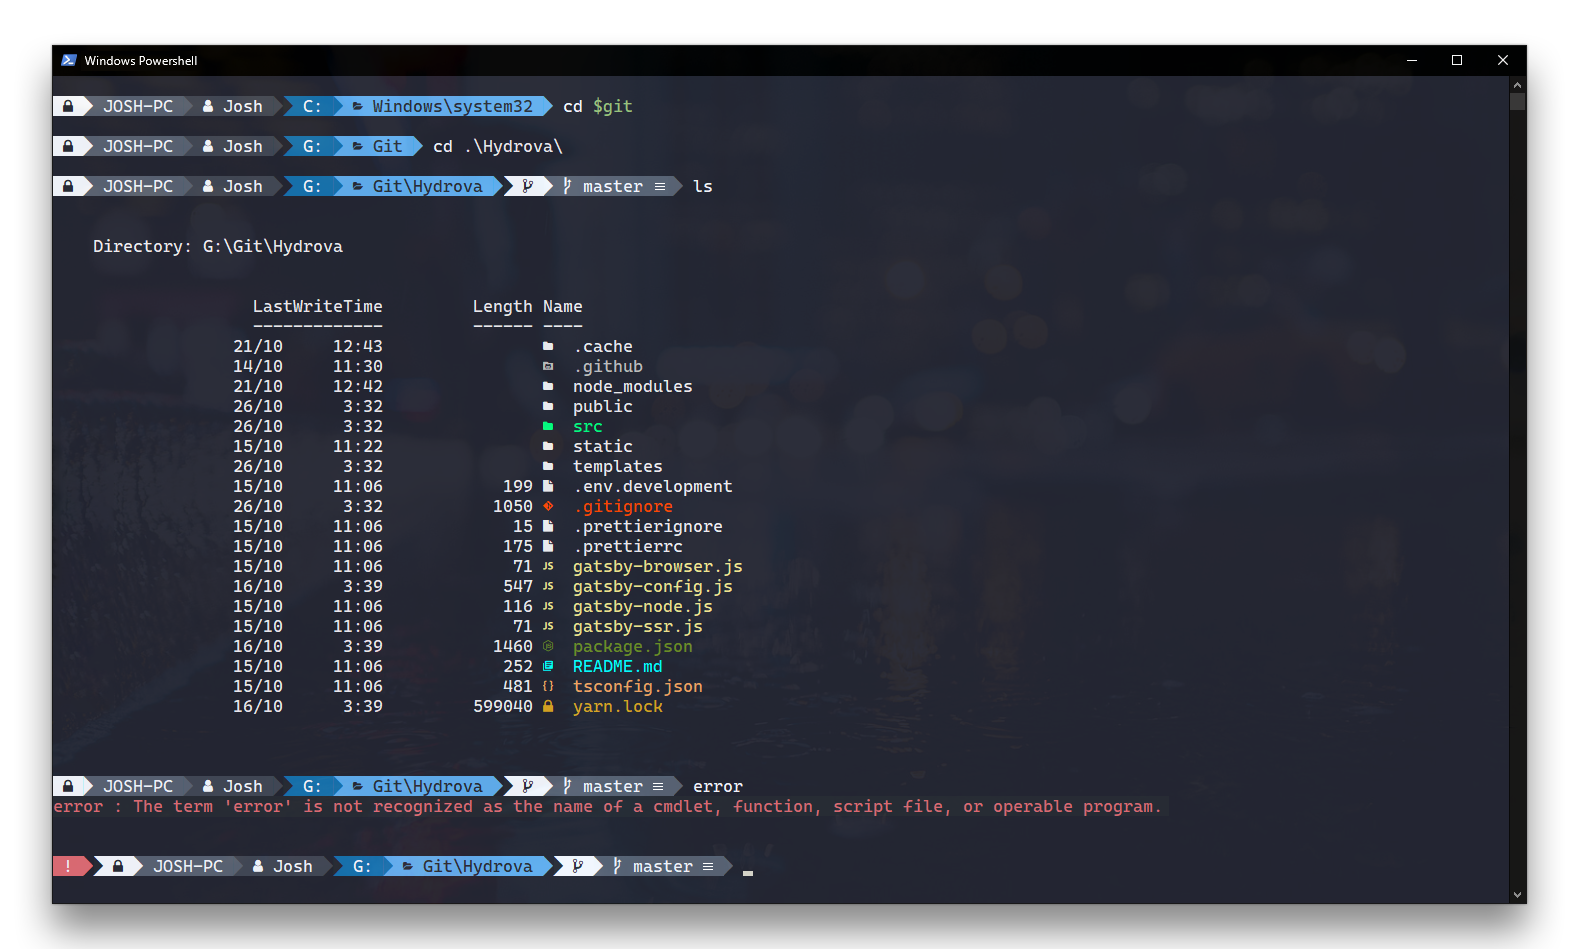
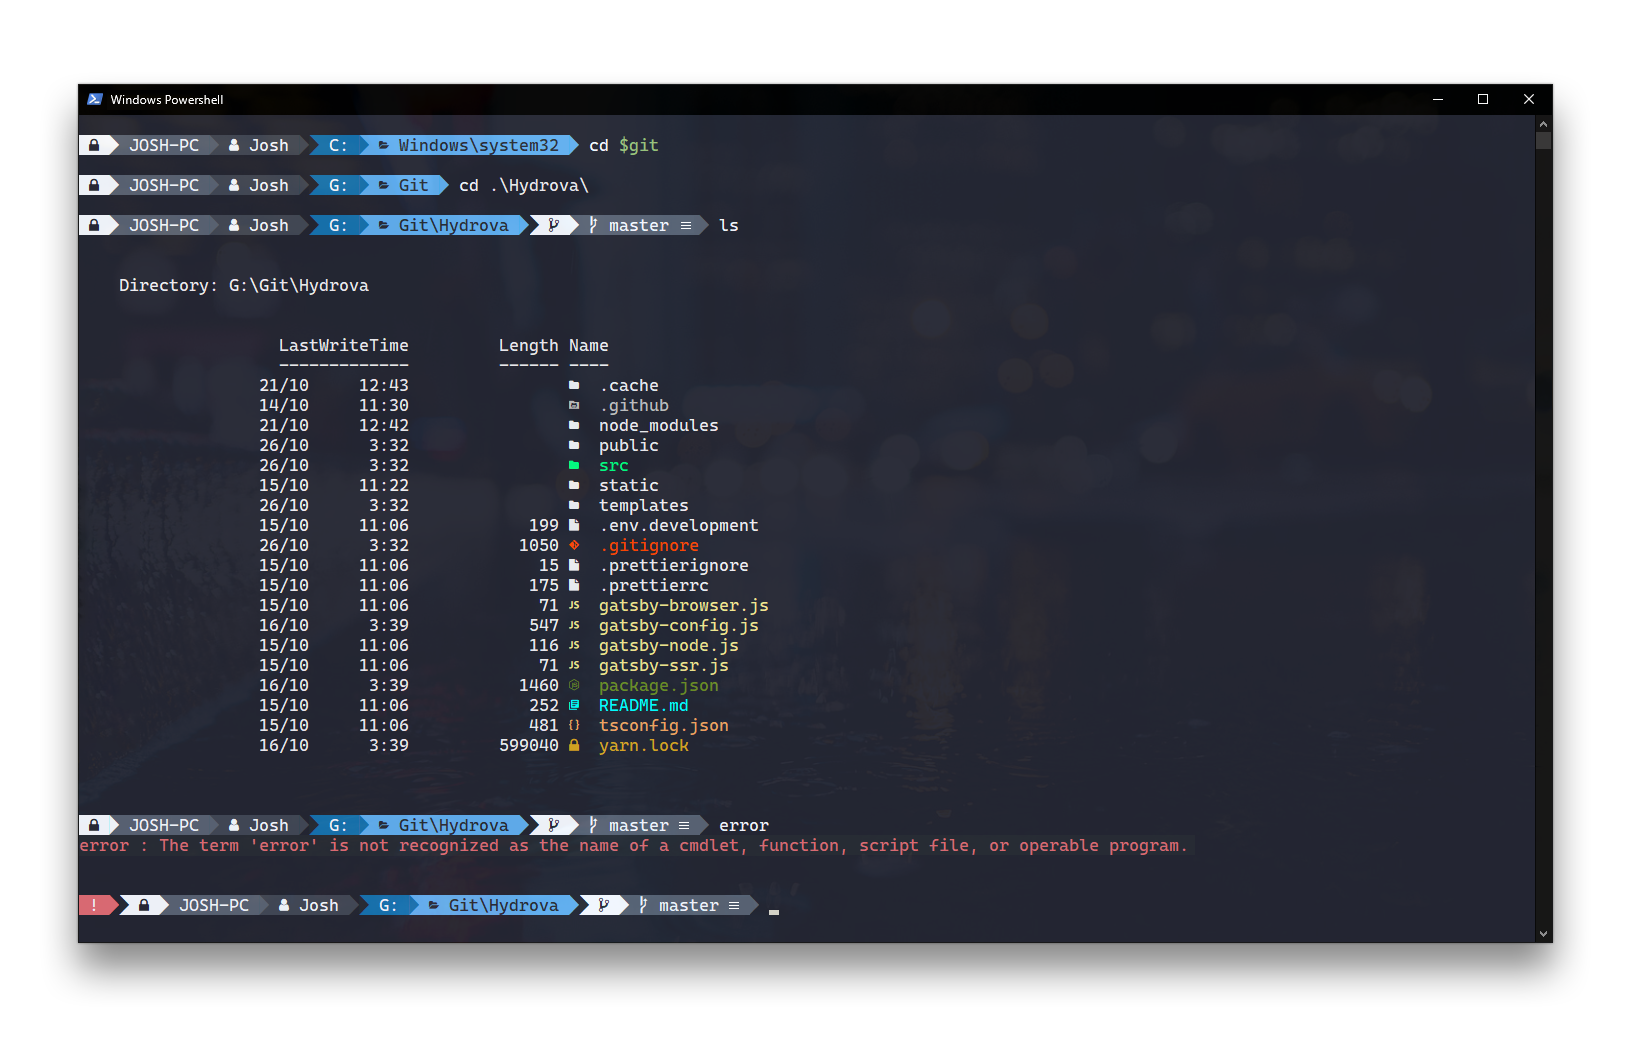
Update Image Padding

Changed region(s): [[0.0, 0.0306, 0.9937, 1.0]]

diff --git a/README.md b/README.md
@@ -100,11 +100,11 @@ You can change the fontFamily to fit your desired font but you must again make s
 ## Preview
 
 > </br>
-> <h2 style="font-size:12pt" align="center">Powershell</h2>
-> <img src="./Preview0.png" align="center" style="margin-bottom:20px">
+> &nbsp;&nbsp;&nbsp;&nbsp;&nbsp;Powershell
+> <img src="./Preview0.png" align="center">
 
 </br>
 
 > </br>
-> <h2 style="font-size:12pt" align="center">VSCode Inline Terminal</h2>
-> <img src="./Preview1.png" align="center" style="margin-bottom:20px">
+> &nbsp;&nbsp;&nbsp;&nbsp;&nbsp;VSCode Inline Terminal
+> <img src="./Preview1.png" align="center">
